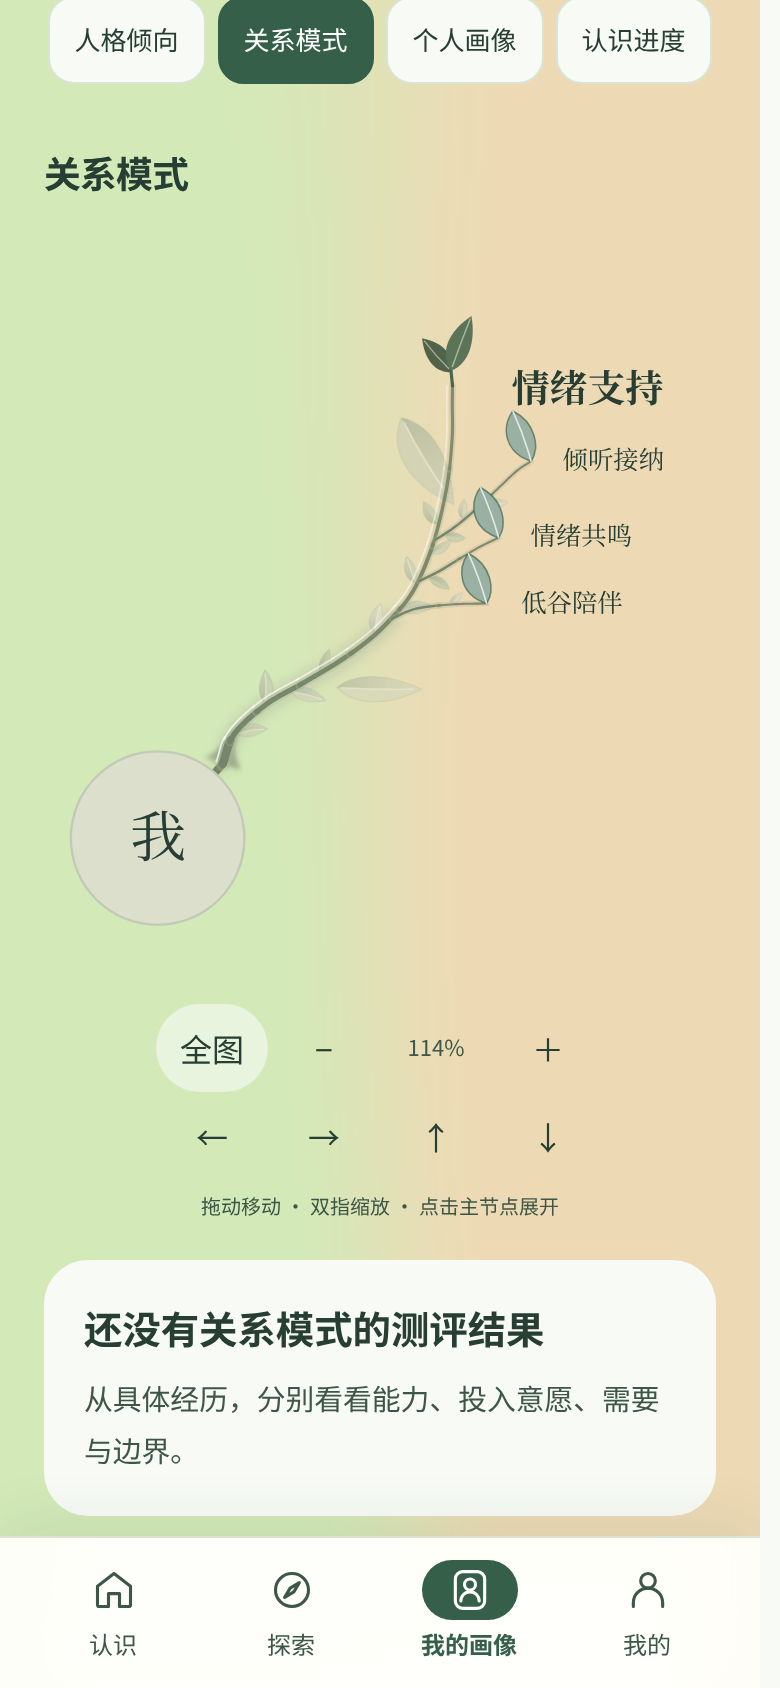
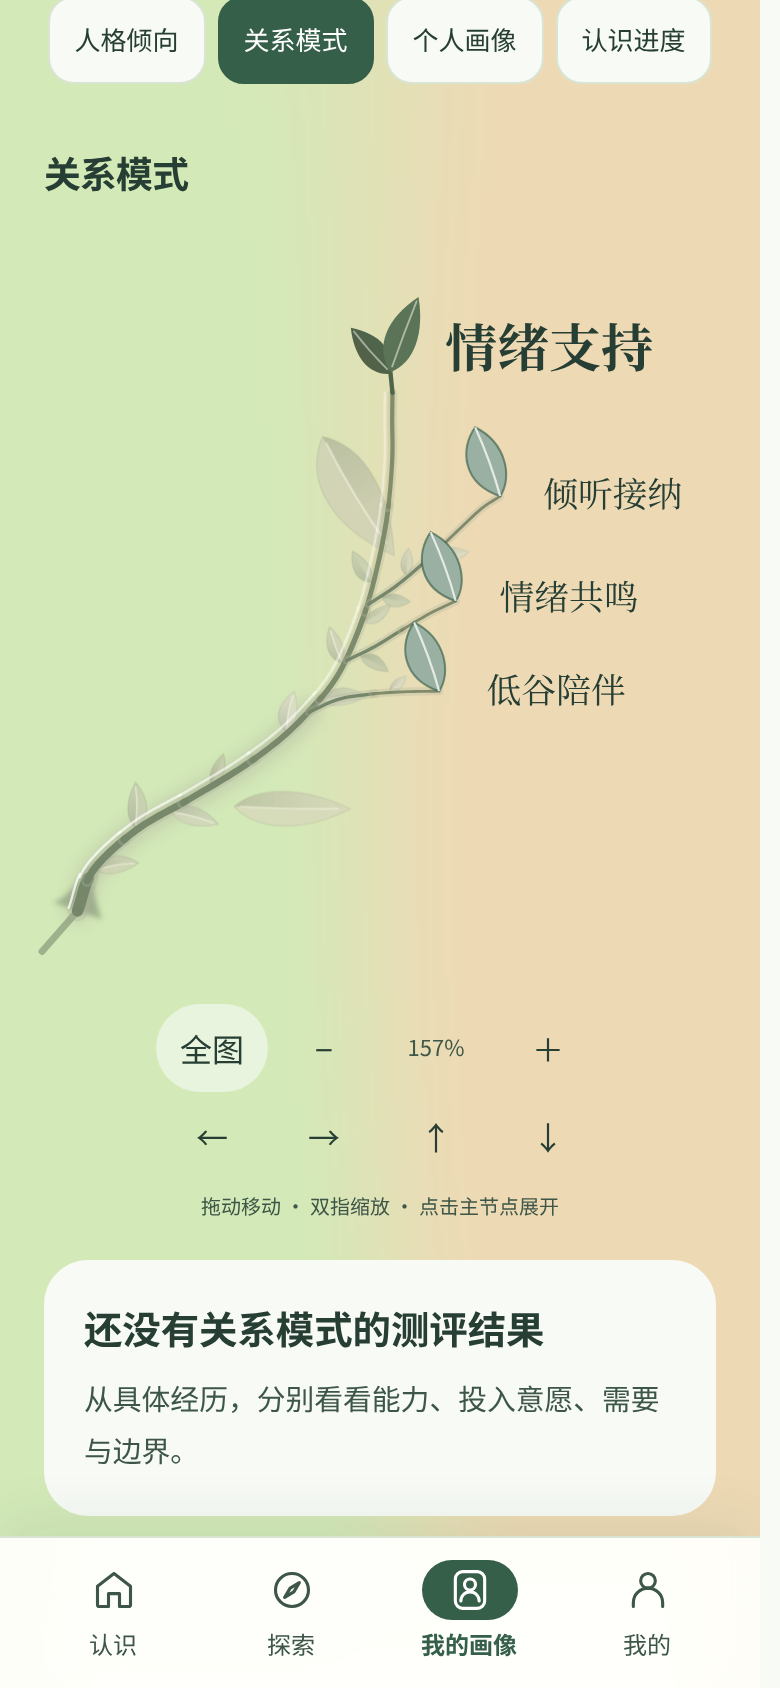
Refine relationship node grouping and focused reading area

Changed region(s): [[0.0615, 0.154, 0.8615, 0.5545], [0.6154, 0.4005, 0.8, 0.4313]]

diff --git a/site/review/relationship-map/camera.js b/site/review/relationship-map/camera.js
@@ -13,27 +13,43 @@ const geometryTopology=MapModel.geometryTopology(art),semantic=MapSemantics;
 const depthLimit=()=>!current?1:semantic.research?Math.min(6,Math.max(2,2+Math.floor(Math.log(cam.k/focusScale)/Math.log(1.2)+.02))):2;
 // Attach each original title/icon group to its own curved stem, not a floating label.
 for(const b of art.branches){
- const p=b.paths[0],anchor=art.at(p.poly,b.anchorRatio!=null?p.total*b.anchorRatio:b.id==='plan'?p.total*.48:b.id==='promise'?p.total*.43:p.total);
- const base=({sproutT:[261.9,49.3],emo:[426.9,84.2],sun:[505.5,233.7],heart:[454.55,383.6],mount:[290.2,459.8],sproutG:[96.75,394.6],coins:[65.8,214.7],shield:[141.6,74.9]})[b.icon];b.headOffset=[anchor[0]-base[0],anchor[1]-base[1]];
+ const p=b.paths[0],anchor=art.at(p.poly,b.anchorRatio!=null?p.total*b.anchorRatio:b.id==='plan'?p.total*(botanical?.75:.48):b.id==='promise'?p.total*.43:p.total);
+ if(botanical&&b.id==='money'){
+  // A short continuation of the same stem gives the compact heading breathing room above its first leaf.
+  const end=anchor.slice();anchor[0]-=2;anchor[1]-=24;
+  b.nodeLink=document.createElementNS('http://www.w3.org/2000/svg','path');
+  b.nodeLink.setAttribute('d',`M${end.join(',')}Q${end[0]-1},${end[1]-12} ${anchor.join(',')}`);
+  b.nodeLink.setAttribute('fill','none');b.nodeLink.setAttribute('stroke',b.vc[0]);b.nodeLink.setAttribute('stroke-width','1.2');
+  document.querySelector('#gGreen').append(b.nodeLink);
+ }
+ const base=({sproutT:[261.9,49.3],emo:[426.9,84.2],sun:[505.5,233.7],heart:[454.55,383.6],mount:botanical?[304.4,459.8]:[290.2,459.8],sproutG:[96.75,394.6],coins:[65.8,214.7],shield:[141.6,74.9]})[b.icon];b.headOffset=[anchor[0]-base[0],anchor[1]-base[1]];
  b.head.setAttribute('transform',`translate(${b.headOffset.join(' ')})`);
- // Leave the icon rooted on the curve while placing text in natural clearings.
- if(botanical&&b.id==='promise')b.titleEl.setAttribute('transform','translate(30 0)');
- if(botanical&&b.id==='plan')b.titleEl.setAttribute('transform','translate(-80 12)');
  if(botanical){
   // Carry the original stem into the quiet root disc; the source glow used to conceal this gap.
   const start=p.poly.p[0],dx=start[0]-297.5,dy=start[1]-281.5,d=Math.hypot(dx,dy);
   b.rootLink=document.createElementNS('http://www.w3.org/2000/svg','path');
-  b.rootLink.setAttribute('d',`M${297.5+dx/d*34},${281.5+dy/d*34}L${start.join(',')}`);
+  b.rootLink.setAttribute('d',`M${297.5+dx/d*26},${281.5+dy/d*26}L${start.join(',')}`);
   b.rootLink.setAttribute('fill','none');b.rootLink.setAttribute('stroke',b.vc[0]);
-  b.rootLink.setAttribute('stroke-width','3.5');b.rootLink.setAttribute('stroke-linecap','round');
+  b.rootLink.setAttribute('stroke-width','2.2');b.rootLink.setAttribute('stroke-opacity','.55');b.rootLink.setAttribute('stroke-linecap','round');
   document.querySelector('#gGreen').prepend(b.rootLink);
  }
 
 }
 
+if(botanical){
+ const label=document.createElementNS('http://www.w3.org/2000/svg','text');
+ label.setAttribute('class','root-label');label.setAttribute('x','297.5');label.setAttribute('y','281.5');label.textContent='我';
+ document.querySelector('.orb-svg').append(label);
+}
+function alignHead(b){
+ // Titles share an eight-unit gap and optical center with their icon. The plan group faces left into its natural clearing.
+ const icon=b.iconWrap.querySelector('.ic-g').getBBox(),title=b.titleEl.getBBox();
+ const x=b.id==='plan'?icon.x-8-title.width:icon.x+icon.width+8;
+ b.titleEl.setAttribute('transform',`translate(${x-title.x} ${icon.y+icon.height/2-title.y-title.height/2})`);
+}
 const visible=(node,on)=>{node.style.display=on?'':'none';};
 const hideHit=(node,on)=>{visible(node,on);node.setAttribute('tabindex',on?'0':'-1');node.setAttribute('aria-hidden',String(!on));};
-function paint(){frame=0;drawCount++;layers();if(semantic.research){for(const b of art.branches)for(const it of b.items)it.tx.style.fontSize=Math.min(14,16/cam.k)+'px';for(const n of semantic.nodes.filter(n=>n.element))n.element.querySelector('text').style.fontSize=Math.min(11,12/cam.k)+'px';}stage.style.transform=`translate(${cam.x}px,${cam.y}px) scale(${cam.k})`;document.querySelector('#zoom-level').value=Math.round(cam.k*100)+'%';}
+function paint(){frame=0;drawCount++;stage.style.setProperty('--map-scale',cam.k);layers();if(semantic.research){for(const b of art.branches)for(const it of b.items)it.tx.style.fontSize=Math.min(14,16/cam.k)+'px';for(const n of semantic.nodes.filter(n=>n.element))n.element.querySelector('text').style.fontSize=Math.min(11,12/cam.k)+'px';}stage.style.transform=`translate(${cam.x}px,${cam.y}px) scale(${cam.k})`;document.querySelector('#zoom-level').value=Math.round(cam.k*100)+'%';}
 function requestPaint(){if(!frame)frame=requestAnimationFrame(paint);}
 function fit(bounds){const w=viewport.clientWidth,h=viewport.clientHeight;cam.k=Math.min((w-32)/bounds.w,(h-36)/bounds.h,2.7);cam.x=(w-bounds.w*cam.k)/2-bounds.x*cam.k;cam.y=(h-bounds.h*cam.k)/2-bounds.y*cam.k;requestPaint();}
 function zoom(factor,x=viewport.clientWidth/2,y=viewport.clientHeight/2){const k=Math.min(semantic.research?8:3.5,Math.max(.35,cam.k*factor));cam.x=x-(x-cam.x)*k/cam.k;cam.y=y-(y-cam.y)*k/cam.k;cam.k=k;requestPaint();}
@@ -43,8 +59,8 @@ function layers(){
   const chosen=b.id===current;
   visible(b.head,overview||chosen);hideHit(b.hit,overview||chosen);
   b.hit.setAttribute('aria-expanded',String(chosen));
-  if(overview||chosen){const r=b.head.getBBox();for(const [k,v] of Object.entries({x:r.x+b.headOffset[0]-5,y:r.y+b.headOffset[1]-5,width:r.width+10,height:r.height+10}))b.hit.setAttribute(k,v);}
-  if(b.rootLink)visible(b.rootLink,overview||chosen);
+  if(overview||chosen){if(botanical)alignHead(b);const r=b.head.getBBox();for(const [k,v] of Object.entries({x:r.x+b.headOffset[0]-5,y:r.y+b.headOffset[1]-5,width:r.width+10,height:r.height+10}))b.hit.setAttribute(k,v);}
+  if(b.rootLink)visible(b.rootLink,overview||chosen);if(b.nodeLink)visible(b.nodeLink,overview||chosen);
   visible(b.warm,false);visible(b.shade,overview||chosen);visible(b.fillet,overview||chosen);
   for(const j of b.juncEls)visible(j.g,false);
   for(const bd of b.budEls)visible(bd.bul,false);
@@ -55,14 +71,28 @@ function layers(){
  for(const p of art.paths.filter(p=>p.stem))for(const s of p.gSet)visible(s.e,false);
  for(const [i,leaf] of art.leaves.entries()){const decorative=botanical?Boolean(leaf.host?.b):leaf.host?.main&&leaf.dist>60&&i%2===0;visible(leaf.pop.parentNode,current?leaf.host?.b?.id===current&&(!semantic.research||leaf.host.semanticNode.depth<=level):decorative);leaf.pop.parentNode.style.opacity=current||botanical?'1':'.65';}
  document.querySelector('#gPetals').style.display='none';
+ if(botanical){
+  // Do not leave a cropped fragment of the root button at the edge of a focused reading area.
+  const root=document.querySelector('.orb'),r=Math.min(52*cam.k,44)/2,cx=cam.x+297.5*cam.k,cy=cam.y+281.5*cam.k;
+  const on=overview||(cx-r>=6&&cy-r>=6&&cx+r<=viewport.clientWidth-6&&cy+r<=viewport.clientHeight-6);
+  visible(root,on);root.setAttribute('tabindex',on?'0':'-1');root.setAttribute('aria-hidden',String(!on));
+ }
+
  caption.textContent=semantic.research?(current?'结构样例 · 已展开至第 '+level+' 层 · 放大继续展开':'中性结构样例 · 深度 2 / 3 / 5 / 6，不代表心理维度'):current?art.branches.find(b=>b.id===current).name+' · 轻触叶片查看含义':MapModel.type==='relationships'?'从一条枝蔓，看看关系中在意的需要':'点击主节点，从一个角度慢慢了解自己';
 }
 function overview(){current=null;layers();fit(semantic.research?{x:80,y:130,w:460,h:330}:{x:25,y:5,w:545,h:553});}
 function focusBranch(id){
  const b=art.branches.find(b=>b.id===id);if(!b)return;current=id;layers();
- // Keep the selected branch's original art coordinates and fit its full rooted extent.
+ if(botanical){
+  // Fit the branch and its reading targets, not the root disc or the unselected map.
+  const pts=b.vines.flatMap(v=>v.pts),head=b.head.getBBox(),xs=pts.map(p=>p[0]),ys=pts.map(p=>p[1]);
+  xs.push(head.x+b.headOffset[0],head.x+head.width+b.headOffset[0]);
+  ys.push(head.y+b.headOffset[1],head.y+head.height+b.headOffset[1]);
+  for(const it of b.items){const r=it.g.getBBox();xs.push(r.x,r.x+r.width);ys.push(r.y,r.y+r.height);}
+  const x=Math.min(...xs)-12,y=Math.min(...ys)-12;fit({x,y,w:Math.max(...xs)-x+12,h:Math.max(...ys)-y+12});focusScale=cam.k;return;
+ }
+ // Other map models retain their original framing.
  const pts=b.vines.flatMap(v=>v.pts),xs=[258,337,...pts.map(p=>p[0]),b.title[0]+b.headOffset[0]-15,b.title[1]+b.headOffset[0]+14,...b.items.flatMap(it=>[it.b[0]-18,it.x[1]+10])],ys=[242,321,...pts.map(p=>p[1]),b.box[1]+b.headOffset[1]-10,b.title[2]+b.headOffset[1]+14,...b.items.map(it=>it.cy+17)];
- if(botanical){const r=b.head.getBBox();xs.push(r.x+b.headOffset[0],r.x+r.width+b.headOffset[0]);ys.push(r.y+b.headOffset[1],r.y+r.height+b.headOffset[1]);}
  const x=Math.min(...xs)-12,y=Math.min(...ys)-15;fit({x,y,w:Math.max(...xs)-x+12,h:Math.max(...ys)-y+15});focusScale=cam.k;
 }
 function openDetail(id,index){if(current!==id)return;const b=art.branches.find(b=>b.id===id),it=b?.items[index];if(!it||it.semanticNode.depth>depthLimit())return;
@@ -74,12 +104,12 @@ for(const b of art.branches)for(const it of b.items){
  it.bul.style.display='none';
  if(botanical){
   if(b.id==='money'&&it.t==='现实保障')it.tx.setAttribute('transform','translate(0 -4)');
-  const ns='http://www.w3.org/2000/svg',leaf=document.createElementNS(ns,'g');
+  const leaf=document.createElementNS('http://www.w3.org/2000/svg','image');
   leaf.setAttribute('class','terminal-leaf');leaf.setAttribute('aria-hidden','true');
-  leaf.setAttribute('transform',`translate(${it.b.join(' ')})`);
-  for(const [d,cls] of [['M0 0C-12 -4 -13 -15 -8 -22C2 -17 4 -6 0 0Z','terminal-blade'],['M0 0Q-3 -11 -8 -22','terminal-vein']]){
-   const path=document.createElementNS(ns,'path');path.setAttribute('d',d);path.setAttribute('class',cls);leaf.append(path);
-  }
+  leaf.setAttribute('href','assets/terminal-leaf.svg');
+  // Asset viewBox -14 -24 20 26 puts the stalk tip at (0,0), exactly on the path endpoint.
+  leaf.setAttribute('x',it.b[0]-14);leaf.setAttribute('y',it.b[1]-24);
+  leaf.setAttribute('width','20');leaf.setAttribute('height','26');
   it.g.insertBefore(leaf,it.tx);continue;
  }
  const img=document.createElementNS('http://www.w3.org/2000/svg','image');
@@ -110,5 +140,6 @@ viewport.addEventListener('click',e=>{if(moved){e.preventDefault();e.stopImmedia
 let lastSize=[viewport.clientWidth,viewport.clientHeight],resizeTimer;
 addEventListener('resize',()=>{clearTimeout(resizeTimer);resizeTimer=setTimeout(()=>{const size=[viewport.clientWidth,viewport.clientHeight];if(size.some(v=>v<120)||size.every((v,i)=>v===lastSize[i]))return;if(current){const ratio=cam.k/focusScale,cx=(lastSize[0]/2-cam.x)/cam.k,cy=(lastSize[1]/2-cam.y)/cam.k;focusBranch(current);zoom(ratio);cam.x=size[0]/2-cx*cam.k;cam.y=size[1]/2-cy*cam.k;requestPaint();}else overview();lastSize=size;},100);});
 window.MapCamera={overview,focusBranch,openDetail,geometryTopology,get topology(){return semantic.snapshot();},semantic:semantic.snapshot,inspectNode(id){const n=semantic.by.get(id);if(!n||!n.branch)return;focusBranch(n.branch);zoom(Math.pow(1.2,Math.max(0,n.depth-2)));if(n.point){cam.x=viewport.clientWidth/2-(n.point[0]+(n.type==='terminal'?45:0))*cam.k;cam.y=viewport.clientHeight/2-n.point[1]*cam.k;}requestPaint();},state:()=>({current,depth:depthLimit(),...cam,drawCount,originalState,liveState:JSON.stringify(art.branches.map(b=>b.items.map(it=>it.lit)))})};
+if(botanical)document.fonts.ready.then(requestPaint);
 Ambient.setContext({quiet:embedded,reduced:new URLSearchParams(location.search).has('still')});overview();
 })();

diff --git a/site/review/relationship-map/camera.css b/site/review/relationship-map/camera.css
@@ -36,15 +36,18 @@ body.embedded{background:transparent!important}.embedded #ambient-background,.em
 
 /* Relationship artwork keeps the source botanical silhouette. Other maps retain their own presentation. */
 .relationship-art #leaves{opacity:1}
-.relationship-art .head .blob{fill:transparent!important}
-.relationship-art .orb-body{background:color-mix(in srgb,var(--paper) 58%,#b6b994 42%);box-shadow:none;border:1px solid color-mix(in srgb,var(--primary) 16%,transparent)}
+.relationship-art .head .blob{display:none}
+.relationship-art .orb{--root-size:52px;width:var(--root-size);left:calc(297.5px - var(--root-size)/2);top:calc(281.5px - var(--root-size)/2)}
+.relationship-art .stage[data-mode=focus] .orb{--root-size:min(52px,calc(44px / var(--map-scale,1)))}
+.relationship-art .orb-body{background:color-mix(in srgb,#edc992 28%,transparent);box-shadow:none;border:1px solid color-mix(in srgb,var(--ink) 12%,transparent)}
+.relationship-art #wo{display:none}
+.relationship-art .root-label{fill:var(--ink);font:500 28px var(--serif);text-anchor:middle;dominant-baseline:central}
 .relationship-art .orb-svg>g{display:none}
 .relationship-art .orb-txt{fill:var(--ink);font-weight:500}
 .relationship-art .stage[data-mode=overview] .t-title{font-size:19px}
 
 
-.relationship-art .terminal-blade{fill:color-mix(in srgb,var(--primary) 48%,var(--paper));stroke:var(--primary);stroke-width:.65;stroke-opacity:.65}
-.relationship-art .terminal-vein{fill:none;stroke:var(--paper);stroke-width:.7;stroke-opacity:.8}
+.relationship-art .item image.terminal-leaf{opacity:1}
 .relationship-art .camera-tools{display:grid;grid-template-columns:repeat(4,1fr);border:0;box-shadow:none;background:transparent;gap:0;padding:0;width:224px;border-radius:0}
 .relationship-art .camera-tools button{border-radius:50%}
 .relationship-art .camera-tools button[data-camera=overview]{border-radius:22px;background:color-mix(in srgb,var(--paper) 62%,transparent)}
